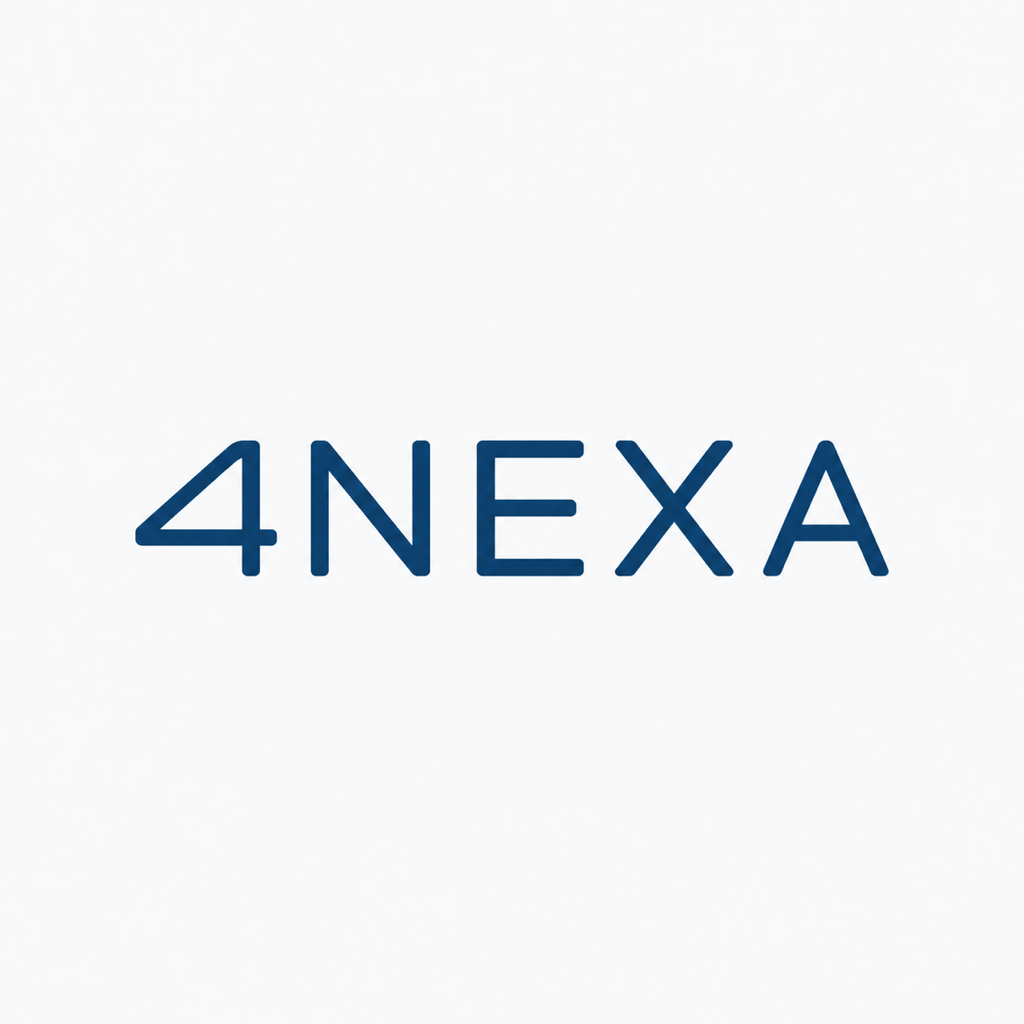
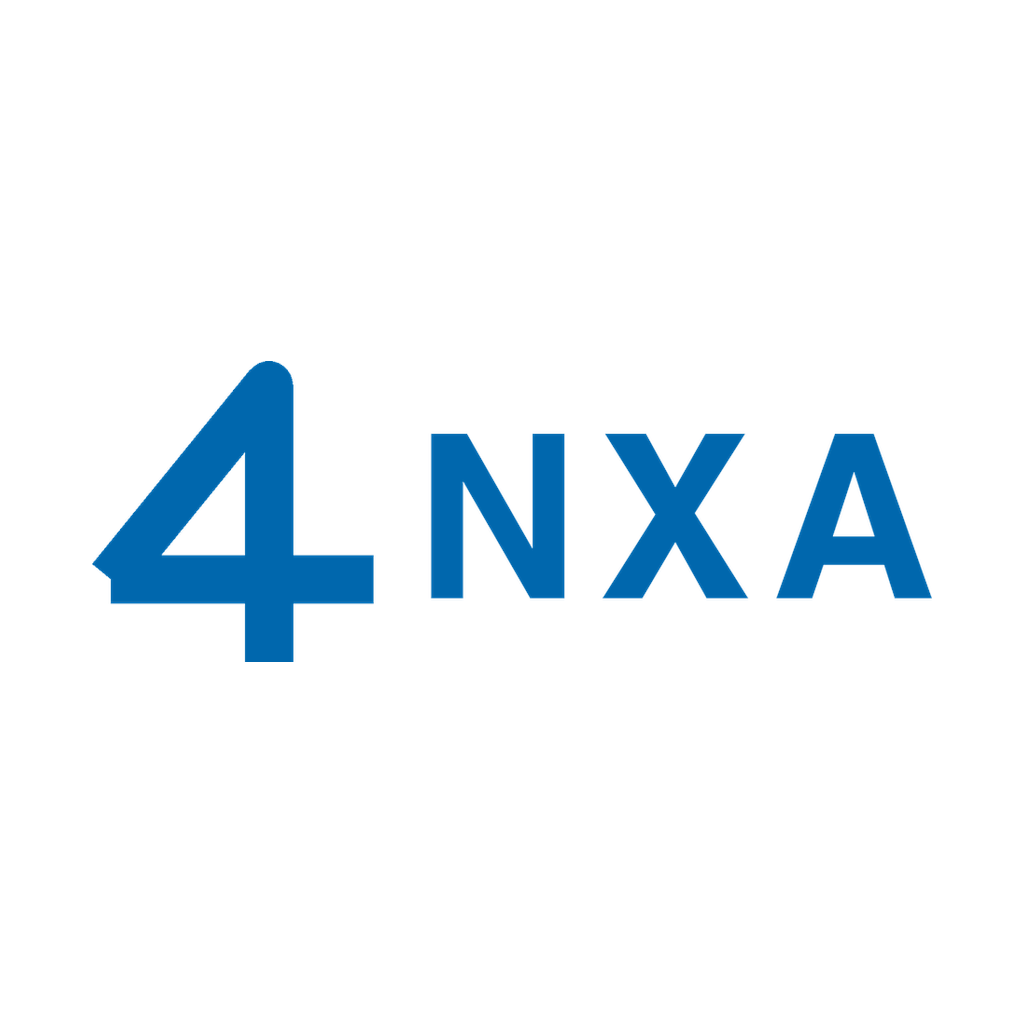
Release FORNEXA Mobile 0.6.0

Changed region(s): [[0.0938, 0.3438, 0.9062, 0.6562]]

diff --git a/app/globals.css b/app/globals.css
@@ -1,6 +1,6 @@
 :root { --bg:#eef3f9; --panel:#ffffff; --panel2:#f8fafc; --text:#101216; --muted:#526174; --accent:#005d8f; --accent-soft:#dcecf5; --success:#168657; --warning:#b56b00; --danger:#c43d4d; --line:rgba(18,32,52,.12); --shadow:0 16px 40px rgba(29,45,64,.10); }
 * { box-sizing:border-box; }\n::selection { background:#c9e5f4; color:#101216; }
-html { scroll-behavior:smooth; }
+html { scroll-behavior:smooth; scrollbar-gutter:stable; overflow-y:scroll; }
 body { margin:0; background:var(--bg); color:var(--text); font-family:var(--font-fornexa),Manrope,"Segoe UI",sans-serif; font-synthesis:none; text-rendering:optimizeLegibility; }
 button,input,select { font:inherit; }
 a { color:var(--text); text-decoration:none; }
@@ -115,3 +115,4 @@ button { background:var(--accent); color:#ffffff; border:0; border-radius:10px; 
 @media (prefers-reduced-motion:reduce) { .rotating-message strong { animation:none; } }
 @media (max-width:1000px) { .hero { grid-template-columns:1fr; } .login-card { max-width:600px; } .metrics { grid-template-columns:1fr 1fr; } .topnav>a { display:none; } .auth-page { grid-template-columns:1fr; } .auth-brand-panel { min-height:430px; border-right:0; border-bottom:1px solid var(--line); } .auth-brand-copy h1 { font-size:58px; } .tracking-hero { grid-template-columns:1fr; } }
 @media (max-width:700px) { .topbar { padding:16px 20px; } .topnav { gap:10px; } .language-select span { display:none; } .login-trigger { display:none; } .hero { padding:65px 20px; } h1 { font-size:50px; } .rotating-message { align-items:flex-start; flex-direction:column; gap:7px; min-height:83px; } .rotating-message strong { font-size:30px; } .lead { font-size:17px; } .dashboard-section { padding:60px 20px; } .metrics { grid-template-columns:1fr; } .table-head { display:none; } .table-row { grid-template-columns:1fr; gap:8px; } .modules-strip { grid-template-columns:1fr 1fr; } .modules-strip span { border-bottom:1px solid var(--line); } .auth-brand-panel { min-height:340px; padding:28px 22px; } .auth-brand-copy h1 { font-size:46px; } .auth-brand-copy p { font-size:17px; } .auth-security-list { display:none; } .auth-form-panel { padding:34px 20px; } .auth-top-links { align-items:flex-start; flex-direction:column; } .auth-tabs-three { grid-template-columns:1fr; } .role-grid,.role-grid-three { grid-template-columns:1fr; } .auth-options { align-items:flex-start; flex-direction:column; } .auth-footer { flex-wrap:wrap; } .tracking-header { padding:18px 20px; } .tracking-hero { padding:60px 20px; } .tracking-hero h1 { font-size:48px; } .tracking-hero>div>p { font-size:17px; } .tracking-methods { align-items:flex-start; flex-direction:column; } .tracking-preview { padding:60px 20px; } }
+@media (max-width:760px) { html { overflow-y:auto; } }

diff --git a/app/dashboard/layout.module.css b/app/dashboard/layout.module.css
@@ -1,8 +1,3 @@
-:global(html) {
-  scrollbar-gutter: stable;
-  overflow-y: scroll;
-}
-
 .frame {
   --dashboard-sidebar-width: 250px;
   display: grid;
@@ -141,7 +136,6 @@
 .stage > :global(main) > :global(header:first-child) > :global(div:first-child) > :global(a:first-child[href="/dashboard"]) { display: none !important; }
 
 @media (max-width: 760px) {
-  :global(html) { overflow-y: auto; }
   .frame { grid-template-columns: minmax(0, 1fr); }
   .sidebar {
     position: sticky;

diff --git a/mobile-driver/App.tsx b/mobile-driver/App.tsx
@@ -1044,7 +1044,7 @@ function FornexaApp() {
         keyboardShouldPersistTaps="handled"
       >
         <Image
-          accessibilityLabel="4NEXA"
+          accessibilityLabel="4NXA"
           source={require("./assets/wordmark-zen.png")}
           style={styles.logoMark}
           resizeMode="contain"
